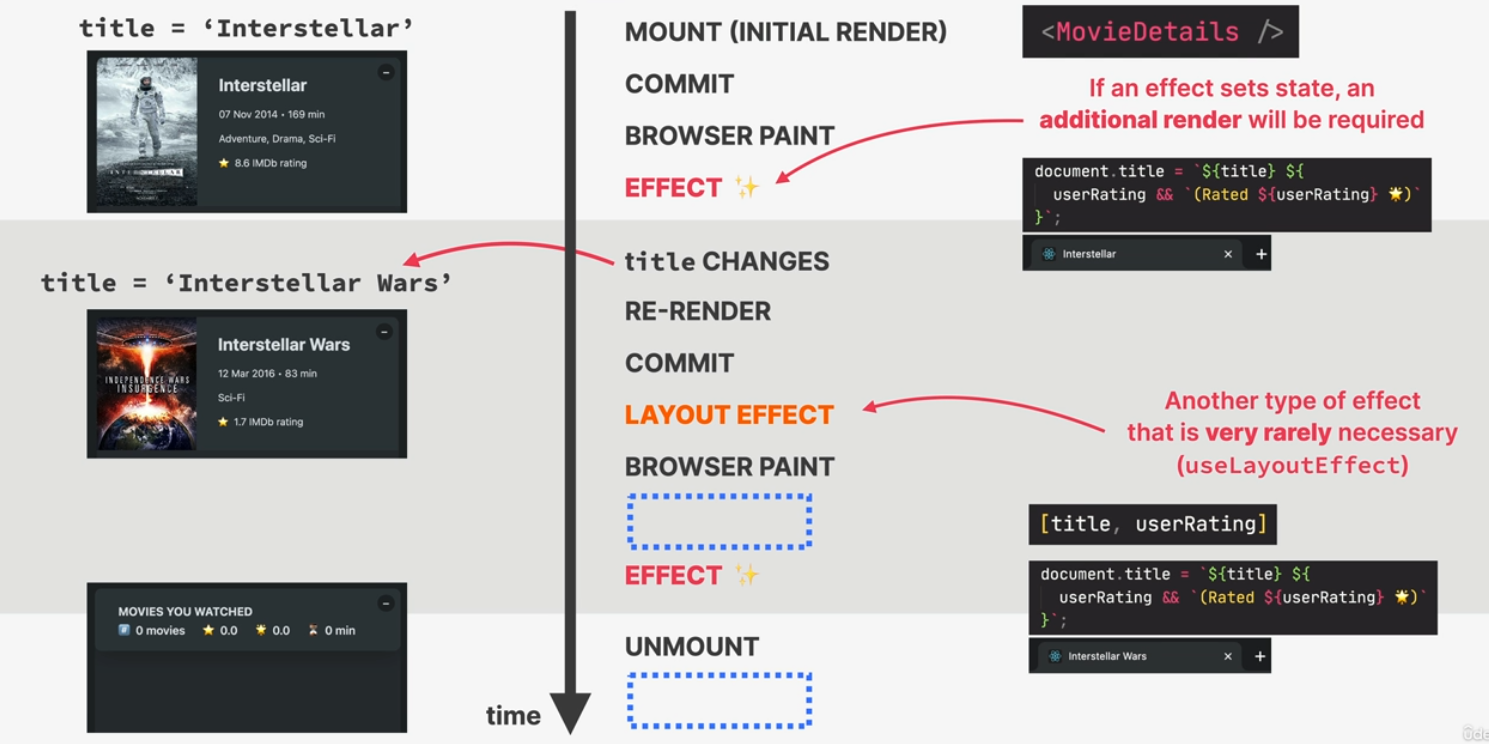
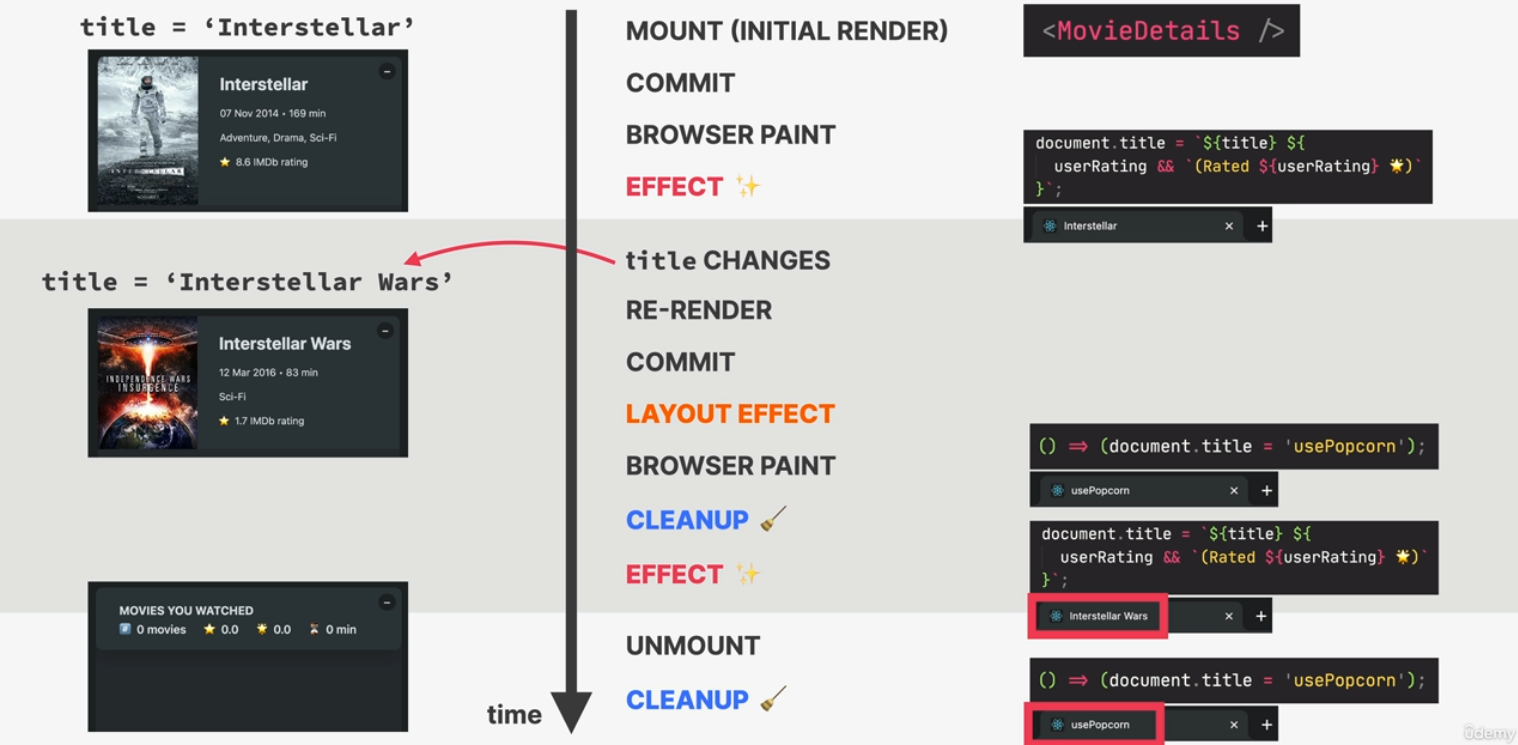
fixed readme

diff --git a/README.md b/README.md
@@ -65,3 +65,7 @@ useEffect(
 );
 ``;
 ```
+
+## useEffect CleanUp function
+
+![alt text](use-Effect-clean-up-fn.png)
